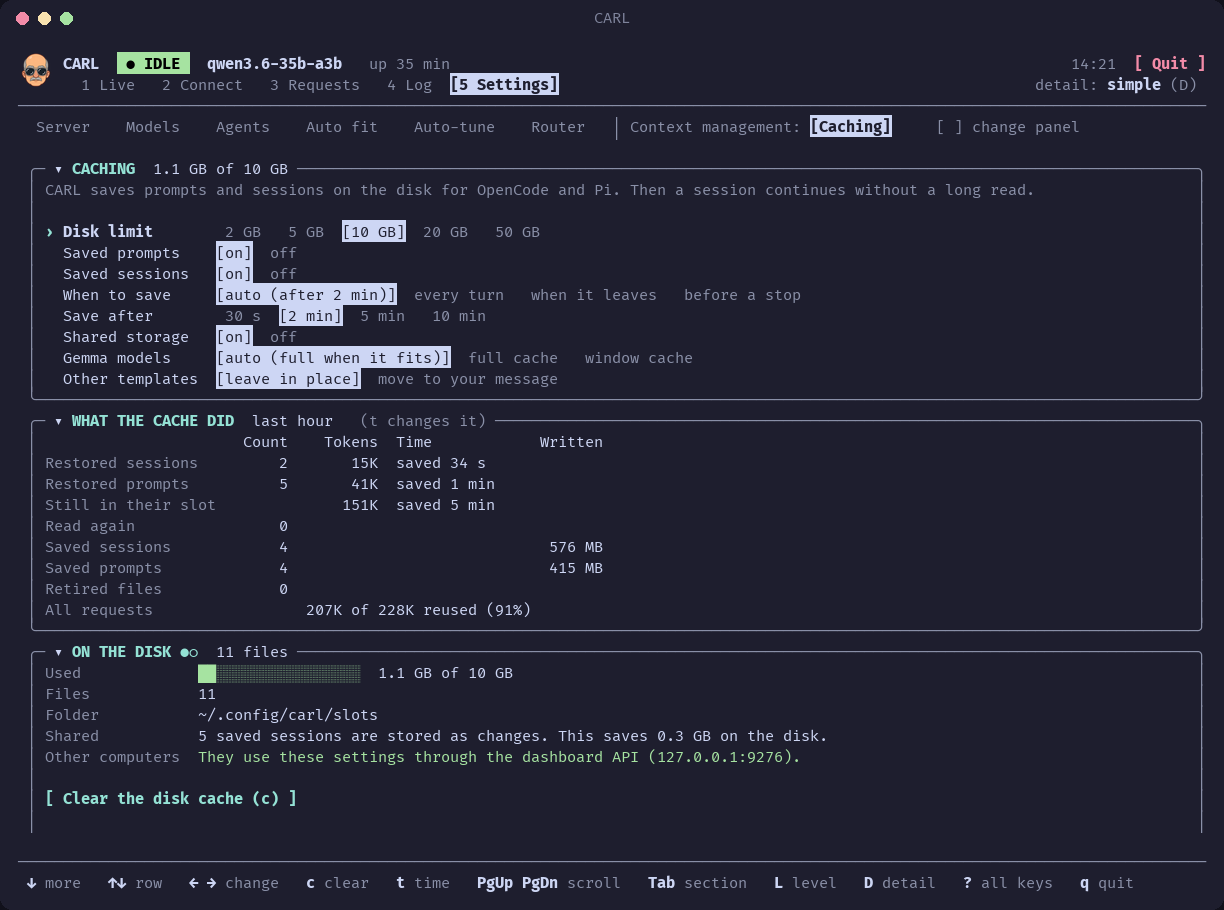
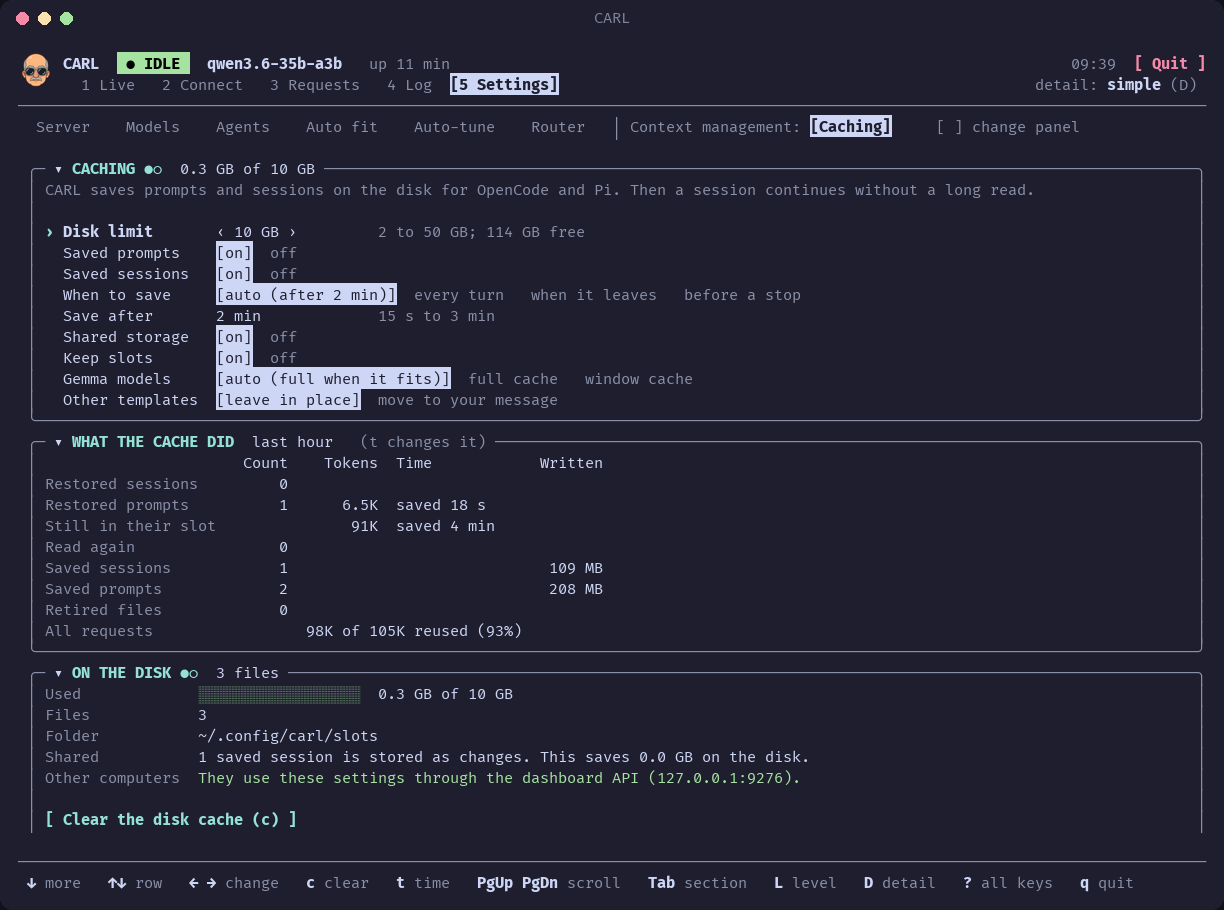
README: the screenshots of 1.21.2

diff --git a/README.md b/README.md
@@ -130,6 +130,8 @@ The live state of the server and the computer: what the server does now, the slo
 - **The coder:** large tasks go to a coder subagent in the background. Type `@coder TASK` in OpenCode to ask for it.
 - **Tools:** web search, LSP, a browser subagent, background subagents ([Tools](USERGUIDE.md#tools-in-opencode-and-pi)). Web search sends the queries to Exa: answer `off` in the setup (or `carl install --web-search off`) to turn it off.
 
+![Pi: the coder subagent wrote the code and the tests in the background](assets/pi-subagent.png)
+
 ## Plugins
 
 ![OpenCode with the CARL plugins](assets/opencode-plugins.png)
@@ -142,6 +144,10 @@ The setup (`carl install`, or `./setup` on another computer) adds CARL's plugins
 - **Model check:** a warning when the model that you select is not the one that the server runs (OpenCode, Pi).
 - **`/carl`:** a control panel: turn each CARL piece on or off; the config sync (OpenCode, Pi).
 - **Speeds:** the server's read and write speed in OpenCode's sidebar and Pi's status line, while the dashboard runs.
+
+The dashboard's Caching panel shows what the disk cache saved and put back. **Keep slots** keeps the server's slots over a restart for clients without the plugins.
+
+![The Caching panel](assets/caching.png)
 
 What each one does and how to turn it off: [USERGUIDE.md, "CARL's plugins and extensions"](USERGUIDE.md#carls-plugins-and-extensions). How they work: [reference/plugins.md](reference/plugins.md).
 
